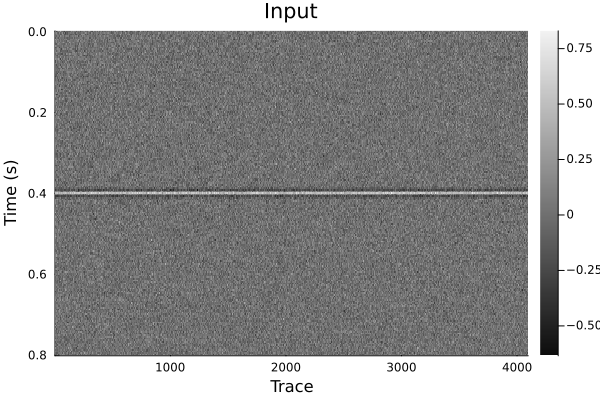
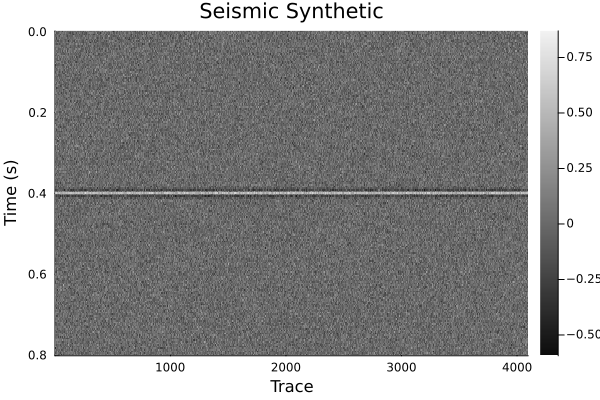
build based on 9656cf3

diff --git a/dev/index.html b/dev/index.html
@@ -1,4 +1,4 @@
 <!DOCTYPE html>
 <html lang="en"><head><meta charset="UTF-8"/><meta name="viewport" content="width=device-width, initial-scale=1.0"/><title>Home · LocalSignalAttributes.jl</title><meta name="title" content="Home · LocalSignalAttributes.jl"/><meta property="og:title" content="Home · LocalSignalAttributes.jl"/><meta property="twitter:title" content="Home · LocalSignalAttributes.jl"/><meta name="description" content="Documentation for LocalSignalAttributes.jl."/><meta property="og:description" content="Documentation for LocalSignalAttributes.jl."/><meta property="twitter:description" content="Documentation for LocalSignalAttributes.jl."/><meta property="og:url" content="https://arohatgi29.github.io/LocalSignalAttributes.jl/"/><meta property="twitter:url" content="https://arohatgi29.github.io/LocalSignalAttributes.jl/"/><link rel="canonical" href="https://arohatgi29.github.io/LocalSignalAttributes.jl/"/><script data-outdated-warner src="assets/warner.js"></script><link href="https://cdnjs.cloudflare.com/ajax/libs/lato-font/3.0.0/css/lato-font.min.css" rel="stylesheet" type="text/css"/><link href="https://cdnjs.cloudflare.com/ajax/libs/juliamono/0.050/juliamono.min.css" rel="stylesheet" type="text/css"/><link href="https://cdnjs.cloudflare.com/ajax/libs/font-awesome/6.4.2/css/fontawesome.min.css" rel="stylesheet" type="text/css"/><link href="https://cdnjs.cloudflare.com/ajax/libs/font-awesome/6.4.2/css/solid.min.css" rel="stylesheet" type="text/css"/><link href="https://cdnjs.cloudflare.com/ajax/libs/font-awesome/6.4.2/css/brands.min.css" rel="stylesheet" type="text/css"/><link href="https://cdnjs.cloudflare.com/ajax/libs/KaTeX/0.16.8/katex.min.css" rel="stylesheet" type="text/css"/><script>documenterBaseURL="."</script><script src="https://cdnjs.cloudflare.com/ajax/libs/require.js/2.3.6/require.min.js" data-main="assets/documenter.js"></script><script src="search_index.js"></script><script src="siteinfo.js"></script><script src="../versions.js"></script><link class="docs-theme-link" rel="stylesheet" type="text/css" href="assets/themes/catppuccin-mocha.css" data-theme-name="catppuccin-mocha"/><link class="docs-theme-link" rel="stylesheet" type="text/css" href="assets/themes/catppuccin-macchiato.css" data-theme-name="catppuccin-macchiato"/><link class="docs-theme-link" rel="stylesheet" type="text/css" href="assets/themes/catppuccin-frappe.css" data-theme-name="catppuccin-frappe"/><link class="docs-theme-link" rel="stylesheet" type="text/css" href="assets/themes/catppuccin-latte.css" data-theme-name="catppuccin-latte"/><link class="docs-theme-link" rel="stylesheet" type="text/css" href="assets/themes/documenter-dark.css" data-theme-name="documenter-dark" data-theme-primary-dark/><link class="docs-theme-link" rel="stylesheet" type="text/css" href="assets/themes/documenter-light.css" data-theme-name="documenter-light" data-theme-primary/><script src="assets/themeswap.js"></script></head><body><div id="documenter"><nav class="docs-sidebar"><div class="docs-package-name"><span class="docs-autofit"><a href>LocalSignalAttributes.jl</a></span></div><button class="docs-search-query input is-rounded is-small is-clickable my-2 mx-auto py-1 px-2" id="documenter-search-query">Search docs (Ctrl + /)</button><ul class="docs-menu"><li class="is-active"><a class="tocitem" href>Home</a><ul class="internal"><li><a class="tocitem" href="#Installation"><span>Installation</span></a></li></ul></li><li><span class="tocitem">Tutorial</span><ul><li><a class="tocitem" href="Tutorial/generate_synthetics/">Generate Synthetics</a></li></ul></li></ul><div class="docs-version-selector field has-addons"><div class="control"><span class="docs-label button is-static is-size-7">Version</span></div><div class="docs-selector control is-expanded"><div class="select is-fullwidth is-size-7"><select id="documenter-version-selector"></select></div></div></div></nav><div class="docs-main"><header class="docs-navbar"><a class="docs-sidebar-button docs-navbar-link fa-solid fa-bars is-hidden-desktop" id="documenter-sidebar-button" href="#"></a><nav class="breadcrumb"><ul class="is-hidden-mobile"><li class="is-active"><a href>Home</a></li></ul><ul class="is-hidden-tablet"><li class="is-active"><a href>Home</a></li></ul></nav><div class="docs-right"><a class="docs-navbar-link" href="https://github.com/arohatgi29/LocalSignalAttributes.jl" title="View the repository on GitHub"><span class="docs-icon fa-brands"></span><span class="docs-label is-hidden-touch">GitHub</span></a><a class="docs-navbar-link" href="https://github.com/arohatgi29/LocalSignalAttributes.jl/blob/main/docs/src/index.md" title="Edit source on GitHub"><span class="docs-icon fa-solid"></span></a><a class="docs-settings-button docs-navbar-link fa-solid fa-gear" id="documenter-settings-button" href="#" title="Settings"></a><a class="docs-article-toggle-button fa-solid fa-chevron-up" id="documenter-article-toggle-button" href="javascript:;" title="Collapse all docstrings"></a></div></header><article class="content" id="documenter-page"><h1 id="LocalSignalAttributes"><a class="docs-heading-anchor" href="#LocalSignalAttributes">LocalSignalAttributes</a><a id="LocalSignalAttributes-1"></a><a class="docs-heading-anchor-permalink" href="#LocalSignalAttributes" title="Permalink"></a></h1><p>Documentation for <a href="https://github.com/arohatgi29/LocalSignalAttributes.jl">LocalSignalAttributes</a>.</p><p>Local attributes measure signal characteristics not instantaneously at each signal point and not globally across a data window but locally in the neighborhood of each point. We define local attributes with the help of regularized inversion and demonstrate their usefulness for measuring local frequencies of signals and local similarity between different datasets. We use shaping regularization for controlling the locality and smoothness of local attributes. We return to the definition of simple data attributes to learn how to turn them from global to localized measures using linear estimation tools and shaping regularization.</p><h2 id="Installation"><a class="docs-heading-anchor" href="#Installation">Installation</a><a id="Installation-1"></a><a class="docs-heading-anchor-permalink" href="#Installation" title="Permalink"></a></h2><pre><code class="language-julia-repl hljs">julia&gt; using Pkg
 
-julia&gt; Pkg.add(&quot;LocalSignalAttributes&quot;)</code></pre></article><nav class="docs-footer"><a class="docs-footer-nextpage" href="Tutorial/generate_synthetics/">Generate Synthetics »</a><div class="flexbox-break"></div><p class="footer-message">Powered by <a href="https://github.com/JuliaDocs/Documenter.jl">Documenter.jl</a> and the <a href="https://julialang.org/">Julia Programming Language</a>.</p></nav></div><div class="modal" id="documenter-settings"><div class="modal-background"></div><div class="modal-card"><header class="modal-card-head"><p class="modal-card-title">Settings</p><button class="delete"></button></header><section class="modal-card-body"><p><label class="label">Theme</label><div class="select"><select id="documenter-themepicker"><option value="auto">Automatic (OS)</option><option value="documenter-light">documenter-light</option><option value="documenter-dark">documenter-dark</option><option value="catppuccin-latte">catppuccin-latte</option><option value="catppuccin-frappe">catppuccin-frappe</option><option value="catppuccin-macchiato">catppuccin-macchiato</option><option value="catppuccin-mocha">catppuccin-mocha</option></select></div></p><hr/><p>This document was generated with <a href="https://github.com/JuliaDocs/Documenter.jl">Documenter.jl</a> version 1.8.0 on <span class="colophon-date" title="Thursday 23 January 2025 03:37">Thursday 23 January 2025</span>. Using Julia version 1.9.4.</p></section><footer class="modal-card-foot"></footer></div></div></div></body></html>
+julia&gt; Pkg.add(&quot;LocalSignalAttributes&quot;)</code></pre></article><nav class="docs-footer"><a class="docs-footer-nextpage" href="Tutorial/generate_synthetics/">Generate Synthetics »</a><div class="flexbox-break"></div><p class="footer-message">Powered by <a href="https://github.com/JuliaDocs/Documenter.jl">Documenter.jl</a> and the <a href="https://julialang.org/">Julia Programming Language</a>.</p></nav></div><div class="modal" id="documenter-settings"><div class="modal-background"></div><div class="modal-card"><header class="modal-card-head"><p class="modal-card-title">Settings</p><button class="delete"></button></header><section class="modal-card-body"><p><label class="label">Theme</label><div class="select"><select id="documenter-themepicker"><option value="auto">Automatic (OS)</option><option value="documenter-light">documenter-light</option><option value="documenter-dark">documenter-dark</option><option value="catppuccin-latte">catppuccin-latte</option><option value="catppuccin-frappe">catppuccin-frappe</option><option value="catppuccin-macchiato">catppuccin-macchiato</option><option value="catppuccin-mocha">catppuccin-mocha</option></select></div></p><hr/><p>This document was generated with <a href="https://github.com/JuliaDocs/Documenter.jl">Documenter.jl</a> version 1.8.0 on <span class="colophon-date" title="Thursday 23 January 2025 03:42">Thursday 23 January 2025</span>. Using Julia version 1.9.4.</p></section><footer class="modal-card-foot"></footer></div></div></div></body></html>

diff --git a/dev/Tutorial/generate_synthetics/index.html b/dev/Tutorial/generate_synthetics/index.html
@@ -36,4 +36,4 @@ noisy_traces = traces .+ randn(size(traces)) * 0.1
 # Plot the noisy flat event as a heatmap
 heatmap(1:ntraces, t, noisy_traces, 
         yflip=true, cmap=:grays, 
-        title=&quot;Seismic Synthetic&quot;, ylabel=&quot;Time (s)&quot;, xlabel=&quot;Trace&quot;)</code></pre><p><img src="../../assets/synthetic.png" alt="Seismic Synthetic with one flat event"/></p><p>Output:</p><p>The heatmap shows the synthetic seismic data with time on the vertical axis, trace number on the horizontal axis, and amplitude represented by intensity.</p><p>Without Noise: Uncomment the line # noisy_traces = traces to visualize the flat event without any noise.</p><p>With Noise: Default visualization includes Gaussian noise (σ = 0.1) added to the flat event.</p></article><nav class="docs-footer"><a class="docs-footer-prevpage" href="../../">« Home</a><div class="flexbox-break"></div><p class="footer-message">Powered by <a href="https://github.com/JuliaDocs/Documenter.jl">Documenter.jl</a> and the <a href="https://julialang.org/">Julia Programming Language</a>.</p></nav></div><div class="modal" id="documenter-settings"><div class="modal-background"></div><div class="modal-card"><header class="modal-card-head"><p class="modal-card-title">Settings</p><button class="delete"></button></header><section class="modal-card-body"><p><label class="label">Theme</label><div class="select"><select id="documenter-themepicker"><option value="auto">Automatic (OS)</option><option value="documenter-light">documenter-light</option><option value="documenter-dark">documenter-dark</option><option value="catppuccin-latte">catppuccin-latte</option><option value="catppuccin-frappe">catppuccin-frappe</option><option value="catppuccin-macchiato">catppuccin-macchiato</option><option value="catppuccin-mocha">catppuccin-mocha</option></select></div></p><hr/><p>This document was generated with <a href="https://github.com/JuliaDocs/Documenter.jl">Documenter.jl</a> version 1.8.0 on <span class="colophon-date" title="Thursday 23 January 2025 03:37">Thursday 23 January 2025</span>. Using Julia version 1.9.4.</p></section><footer class="modal-card-foot"></footer></div></div></div></body></html>
+        title=&quot;Seismic Synthetic&quot;, ylabel=&quot;Time (s)&quot;, xlabel=&quot;Trace&quot;)</code></pre><p><img src="../../assets/synthetic.png" alt="Seismic Synthetic with one flat event"/></p><p>Output:</p><p>The heatmap shows the synthetic seismic data with time on the vertical axis, trace number on the horizontal axis, and amplitude represented by intensity.</p><p>Without Noise: Uncomment the line # noisy_traces = traces to visualize the flat event without any noise.</p><p>With Noise: Default visualization includes Gaussian noise (σ = 0.1) added to the flat event.</p></article><nav class="docs-footer"><a class="docs-footer-prevpage" href="../../">« Home</a><div class="flexbox-break"></div><p class="footer-message">Powered by <a href="https://github.com/JuliaDocs/Documenter.jl">Documenter.jl</a> and the <a href="https://julialang.org/">Julia Programming Language</a>.</p></nav></div><div class="modal" id="documenter-settings"><div class="modal-background"></div><div class="modal-card"><header class="modal-card-head"><p class="modal-card-title">Settings</p><button class="delete"></button></header><section class="modal-card-body"><p><label class="label">Theme</label><div class="select"><select id="documenter-themepicker"><option value="auto">Automatic (OS)</option><option value="documenter-light">documenter-light</option><option value="documenter-dark">documenter-dark</option><option value="catppuccin-latte">catppuccin-latte</option><option value="catppuccin-frappe">catppuccin-frappe</option><option value="catppuccin-macchiato">catppuccin-macchiato</option><option value="catppuccin-mocha">catppuccin-mocha</option></select></div></p><hr/><p>This document was generated with <a href="https://github.com/JuliaDocs/Documenter.jl">Documenter.jl</a> version 1.8.0 on <span class="colophon-date" title="Thursday 23 January 2025 03:42">Thursday 23 January 2025</span>. Using Julia version 1.9.4.</p></section><footer class="modal-card-foot"></footer></div></div></div></body></html>
